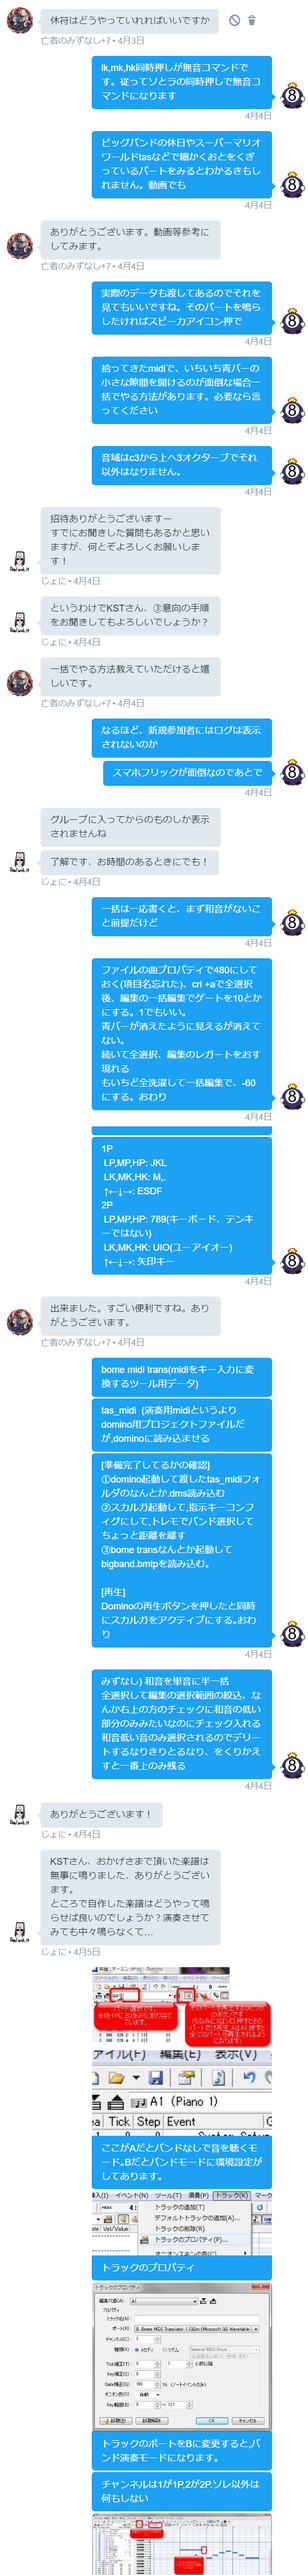
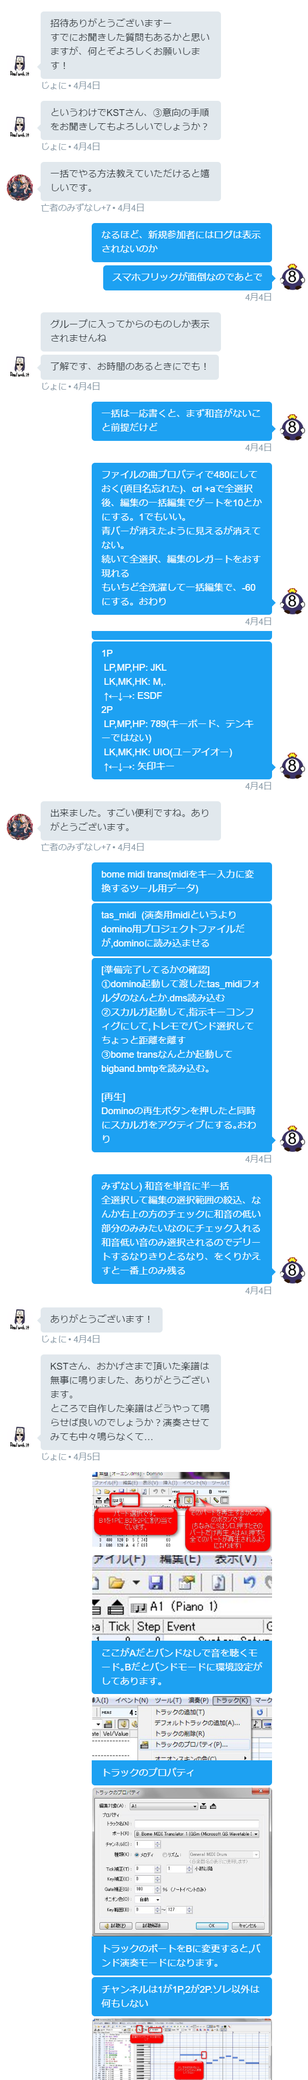
joni kara

diff --git a/kaiwa.html b/kaiwa.html
@@ -15,7 +15,7 @@
     <section class="main-content">
     <a href="enso_tas_data.zip">演奏TASデータ(Bome clasic pro共通)</a>
     TASの作り方教えてたときのチャットログ（転載許可はとってないが，しゃべってるのわしだけじゃし）<br>
-    <img src="2016-07-23_02h17_01.png"><br>
+    
     <img src="2016-07-23_02h22_18.png"><br>
     <img src="2016-07-23_02h23_47.png"><br>
         <pre>
